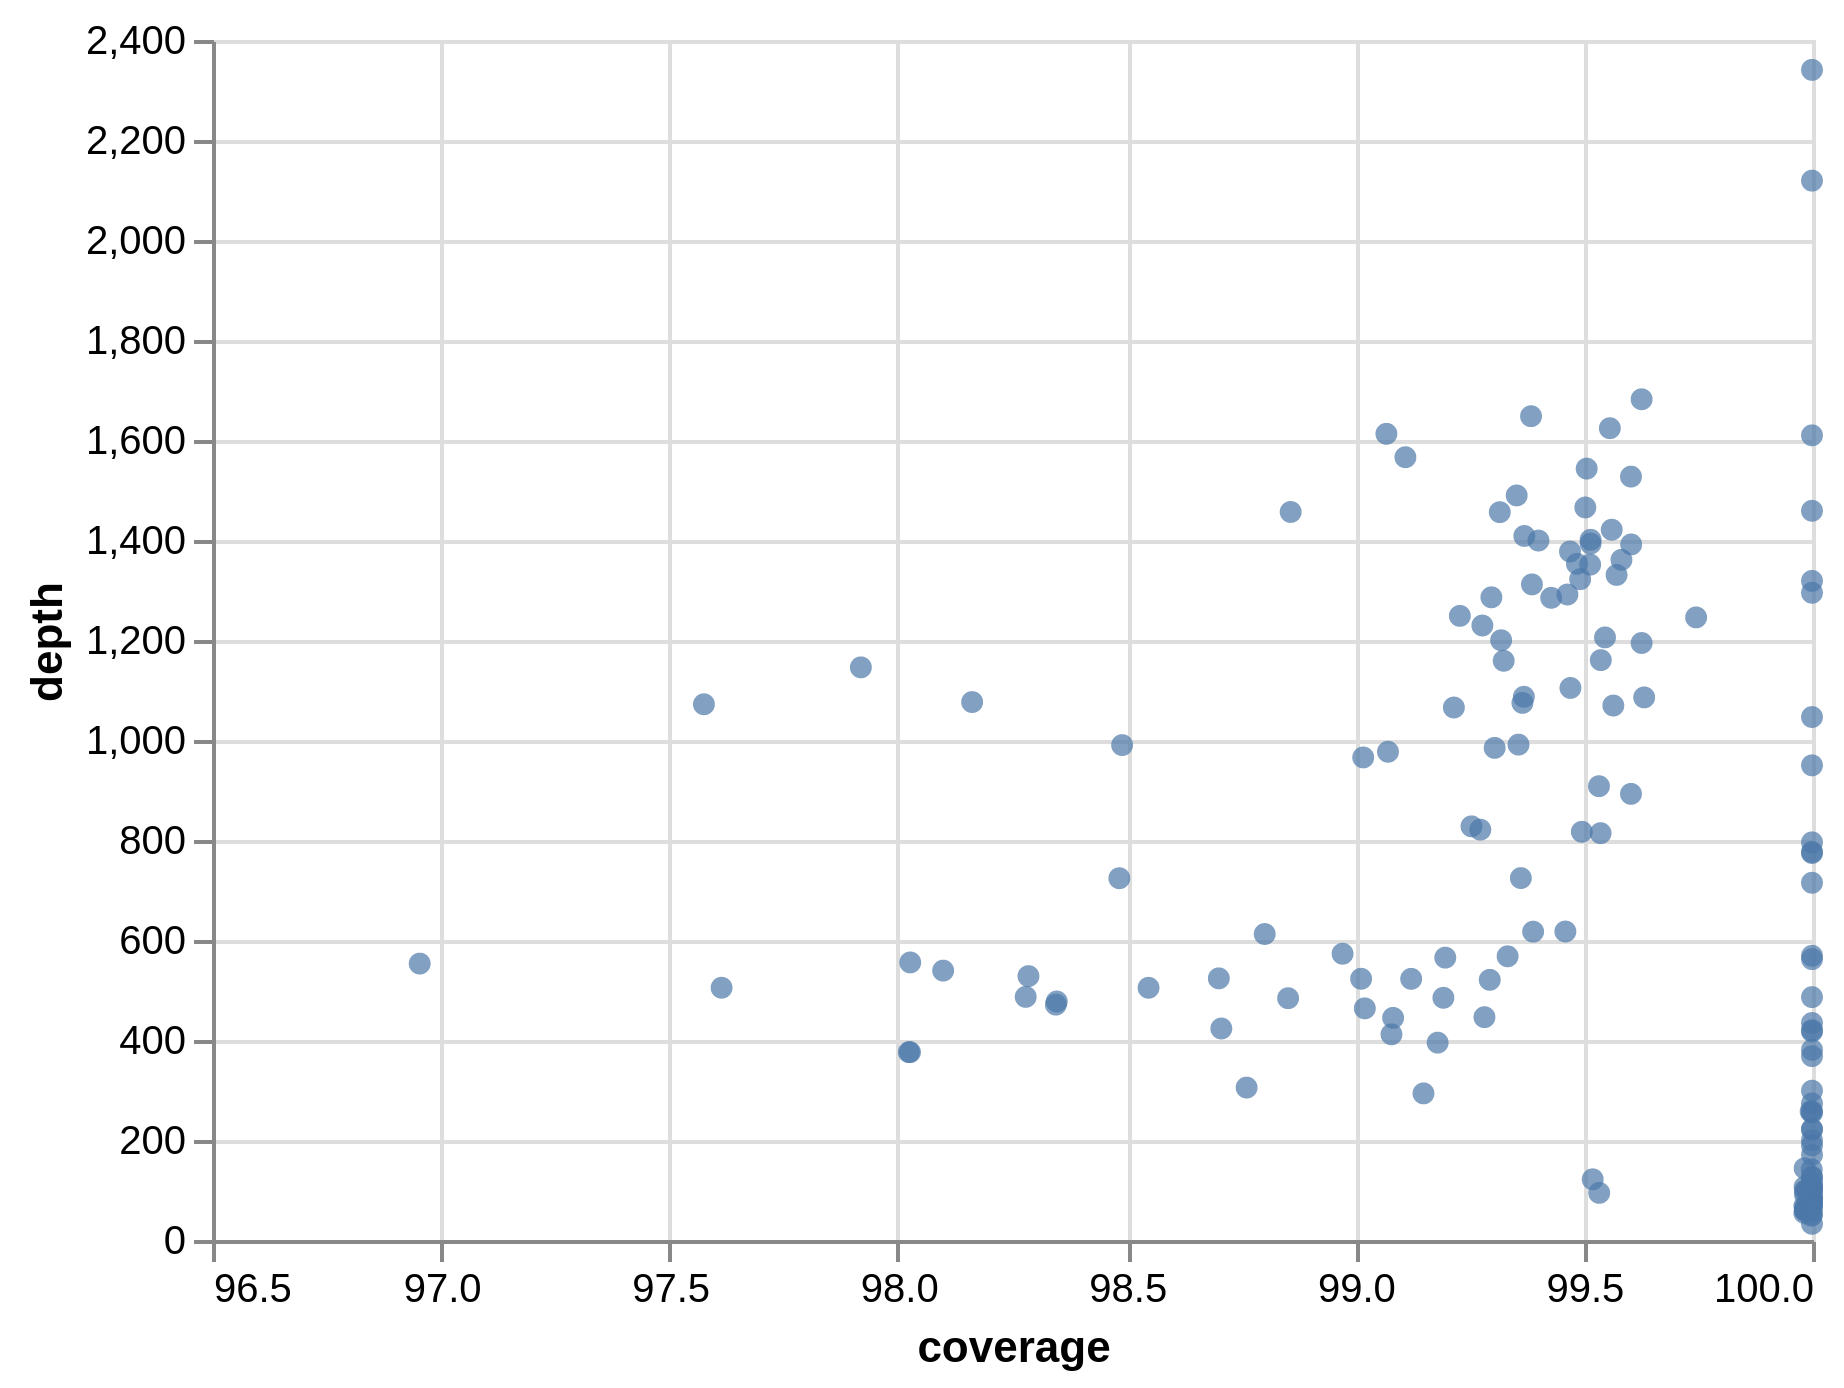
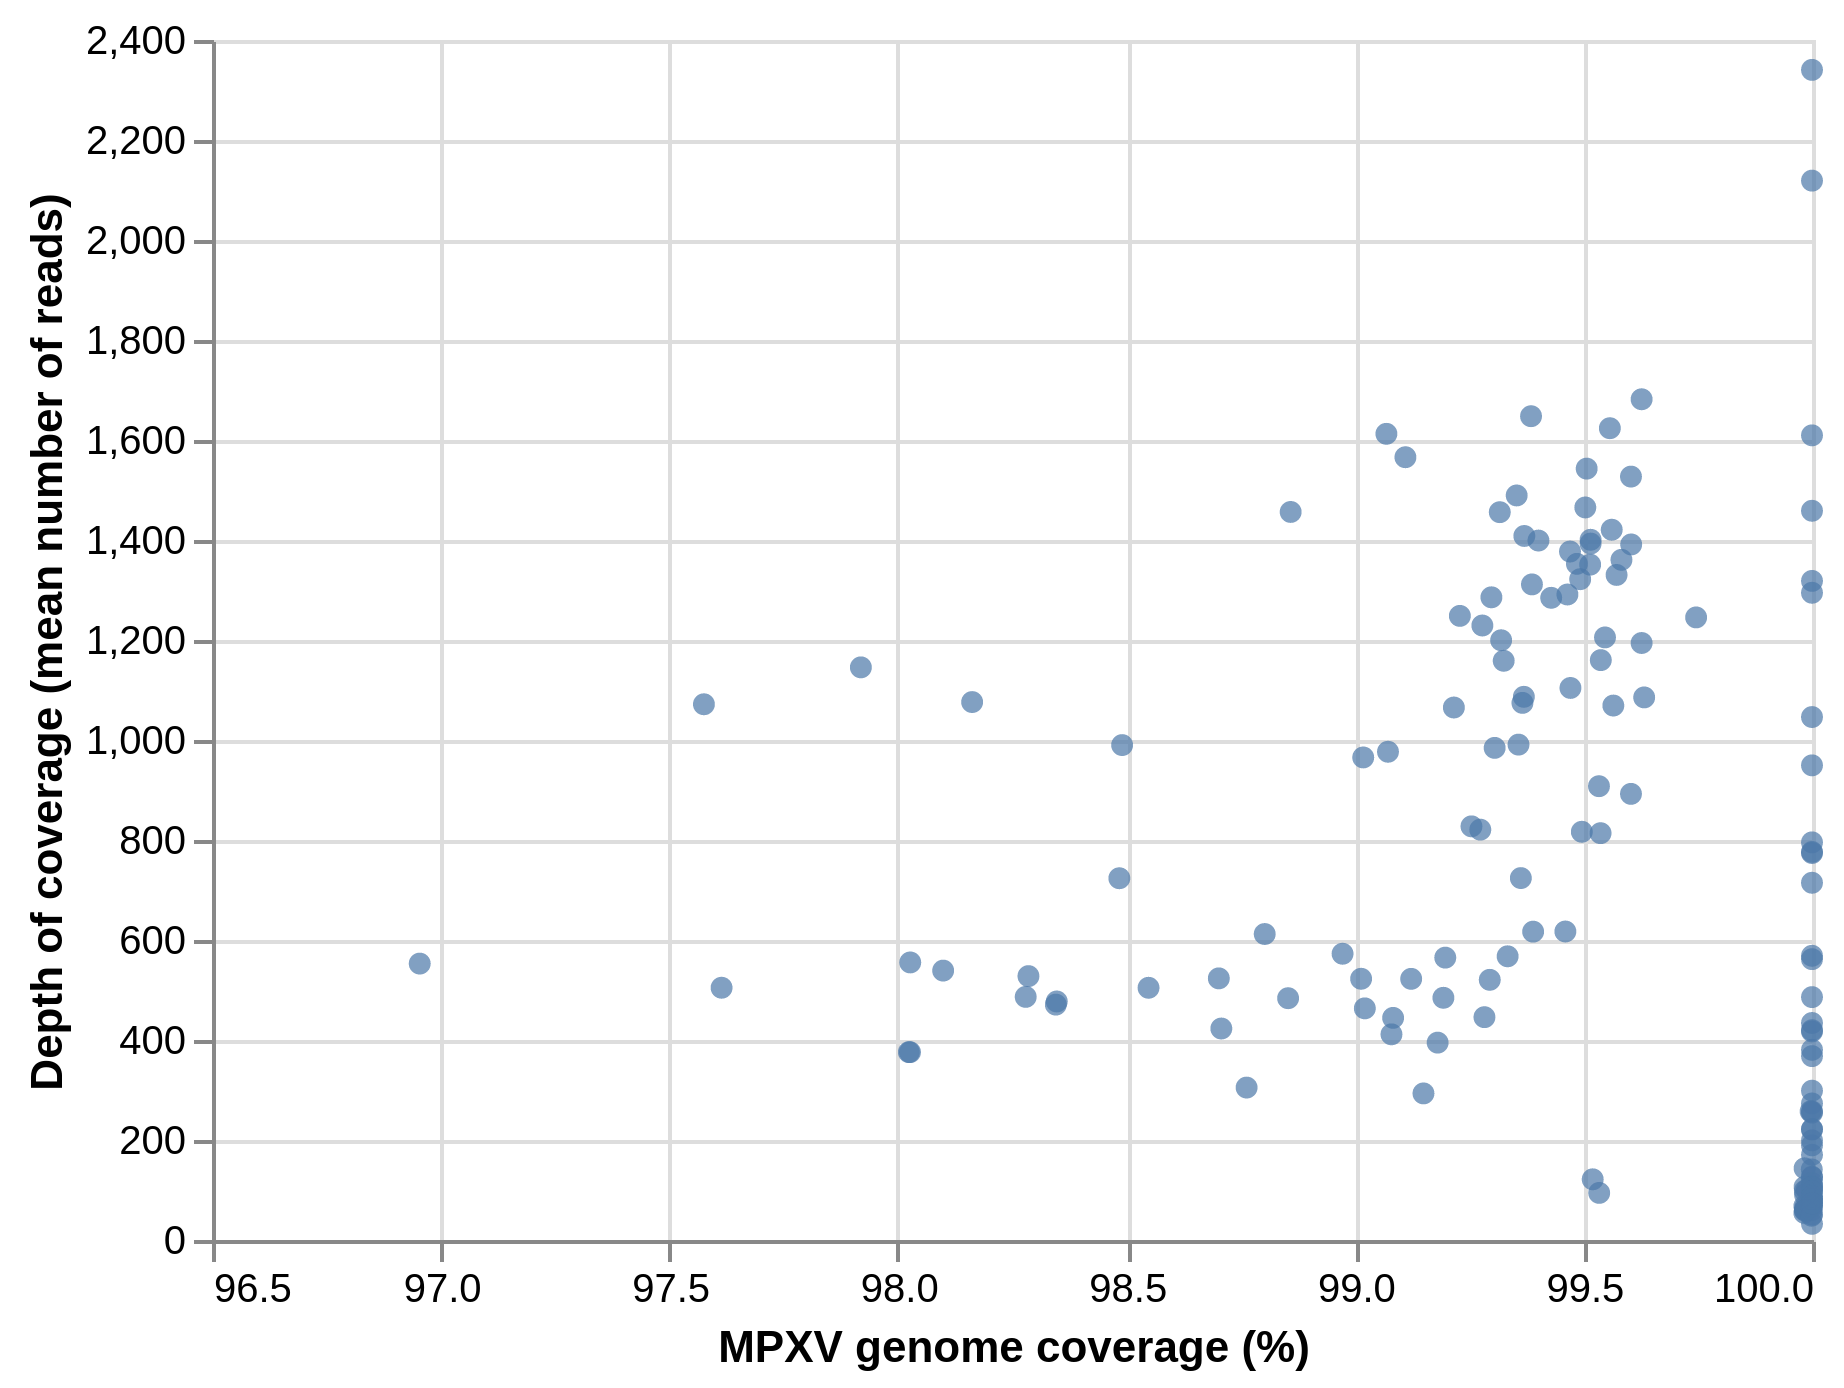
Add better labels to figure 3

Changed region(s): [[0.0, 0.1239, 0.0618, 0.7745], [0.3709, 0.9604, 0.711, 0.9914]]

diff --git a/cecret/plots/fastqc/make_fastqc_table.py b/cecret/plots/fastqc/make_fastqc_table.py
@@ -20,23 +20,6 @@ empty_count = 0
 
 for sample_dir in sample_dirs:
     all_count += 1
-    summary_file = os.path.join(sample_dir, "cecret_results.csv")
-    if os.path.isfile(summary_file):
-        summary_df = pd.read_csv(summary_file)
-        samples.append(summary_df.loc[0, "sample_id"])
-        depths.append(summary_df.loc[0, "depth_after_trimming"])
-        coverages.append(summary_df.loc[0, "1X_coverage_after_trimming"])
-        perc_kepts.append(summary_df.loc[0, "seqyclean_Perc_Kept"])
+    if os.path.isfile():
     else:
         empty_count += 1
-
-print(f"{empty_count} of {all_count} input directories were empty.")
-
-all_summary = pd.DataFrame({
-    "accession": samples,
-    "depth": depths,
-    "coverage": coverages,
-    "perc_kept": perc_kepts,
-})
-
-all_summary.to_csv("all_summary.tsv", sep="\t", index=False)

diff --git a/cecret/plots/coverage_vs_depth/make_coverage_vs_depth_plot.py b/cecret/plots/coverage_vs_depth/make_coverage_vs_depth_plot.py
@@ -6,9 +6,13 @@ all_summary = pd.read_csv("all_summary.tsv", sep="\t")
 chart = alt.Chart(all_summary).mark_circle().encode(
     x=alt.X(
         "coverage",
+        title="MPXV genome coverage (%)",
         scale=alt.Scale(zero=False),
     ),
-    y="depth",
+    y=alt.Y(
+        "depth",
+        title="Depth of coverage (mean number of reads)",
+    ),
 )
 
 chart.save("coverage_vs_depth_plot.png", scale_factor=4)
